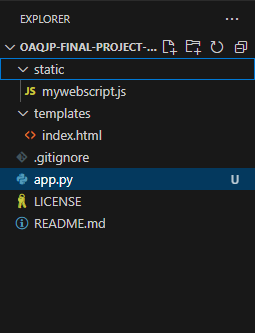
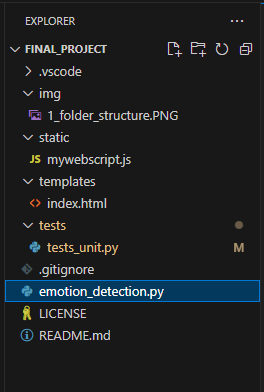
- Replacement of the folder structure image due to new image

diff --git a/tests/tests_unit.py b/tests/tests_unit.py
@@ -1,2 +1,4 @@
 import unittest
 
+unittest.addModuleCleanup
+
